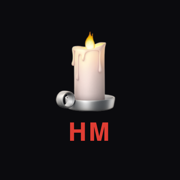
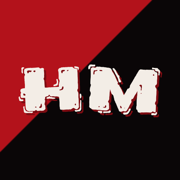
Terror-poster design language: red/black two-tone, Frijole/Rye type, hard edges

diff --git a/styles.css b/styles.css
@@ -1,94 +1,105 @@
+/* HORRORMEET · design language: 90s haunted-attraction poster.
+   Flat two-tone red/black, chunky outlined display type, victorian secondary, hard edges. */
 :root{
-  --bg:#0b0b0e; --panel:#141419; --panel2:#1b1b22; --line:#2a2a33;
-  --text:#e8e5df; --dim:#98939e; --faint:#6b6873;
-  --red:#e03d33; --red-dark:#8f2620; --amber:#d9a441; --good:#3fa46a;
+  --black:#0a0607; --red:#b3121b; --red-deep:#7d0c12; --white:#f3ede6;
+  --panel:#120b0c; --panel2:#1a1012; --line:#33181b;
+  --text:var(--white); --dim:#b9a8a3; --faint:#7d6c68; --good:#3fa46a;
 }
 *{box-sizing:border-box}
 html,body{margin:0;padding:0}
-body{background:var(--bg);color:var(--text);font:16px/1.55 -apple-system,BlinkMacSystemFont,"Segoe UI",Roboto,Helvetica,Arial,sans-serif;-webkit-font-smoothing:antialiased}
+body{background:var(--black);color:var(--text);font:16px/1.55 Georgia,'Times New Roman',serif;-webkit-font-smoothing:antialiased}
 .wrap{max-width:640px;margin:0 auto;padding:0 14px 90px}
-a{color:var(--amber);text-decoration:none}
-button{font:inherit;cursor:pointer;border:none;border-radius:10px}
-input,textarea,select{font:inherit;width:100%;background:var(--panel2);border:1px solid var(--line);color:var(--text);border-radius:10px;padding:11px 12px;outline:none}
+a{color:var(--red);text-decoration:none;font-weight:700}
+button{font:inherit;cursor:pointer;border:none;border-radius:0}
+input,textarea,select{font:16px/1.4 Georgia,serif;width:100%;background:var(--panel2);border:2px solid var(--line);color:var(--text);border-radius:0;padding:11px 12px;outline:none}
 input:focus,textarea:focus{border-color:var(--red)}
 ::placeholder{color:var(--faint)}
 
-header.app{position:sticky;top:0;z-index:20;background:rgba(11,11,14,.92);backdrop-filter:blur(8px);border-bottom:1px solid var(--line)}
-.app-bar{max-width:640px;margin:0 auto;display:flex;align-items:center;gap:10px;padding:12px 14px}
-.logo{font-weight:800;letter-spacing:.06em;font-size:17px;display:flex;align-items:center;gap:8px}
-.logo .skull{font-size:20px}
-.logo .beta{font-size:10px;color:var(--red);border:1px solid var(--red-dark);border-radius:5px;padding:1px 5px;letter-spacing:.12em}
+.display{font-family:'Frijole',Impact,fantasy;font-weight:400;letter-spacing:.02em}
+.victorian{font-family:'Rye',Georgia,serif;font-weight:400}
+
+/* diagonal two-tone header, poster-style */
+header.app{position:sticky;top:0;z-index:20;background:var(--black);border-bottom:3px solid var(--red)}
+.tagline-bar{background:var(--red);color:var(--white);font-family:'Rye',Georgia,serif;
+  font-size:12px;letter-spacing:.14em;text-transform:lowercase;padding:5px 14px;
+  clip-path:polygon(0 0,100% 0,100% 100%,0 100%)}
+.tagline-bar .inner{max-width:640px;margin:0 auto}
+.app-bar{max-width:640px;margin:0 auto;display:flex;align-items:center;gap:10px;padding:12px 14px 8px}
+.logo{font-family:'Frijole',Impact,fantasy;font-size:21px;color:var(--white);
+  text-shadow:2px 2px 0 var(--red-deep);display:flex;align-items:baseline;gap:8px}
+.logo .beta{font-family:'Rye',Georgia,serif;font-size:10px;color:var(--red);letter-spacing:.18em;text-transform:uppercase}
 .spacer{flex:1}
-.chip{background:var(--panel2);border:1px solid var(--line);color:var(--text);padding:7px 12px;border-radius:99px;font-size:14px;max-width:160px;overflow:hidden;text-overflow:ellipsis;white-space:nowrap}
+.chip{background:var(--black);border:2px solid var(--white);color:var(--white);padding:6px 14px;font-size:13px;font-weight:700;letter-spacing:.05em;text-transform:uppercase;max-width:170px;overflow:hidden;text-overflow:ellipsis;white-space:nowrap;font-family:Georgia,serif}
 .chip.red{background:var(--red);border-color:var(--red)}
 
-nav.tabs{display:flex;gap:6px;max-width:640px;margin:0 auto;padding:0 14px 10px}
-.tab{flex:1;background:var(--panel);border:1px solid var(--line);color:var(--dim);padding:9px 0;border-radius:10px;font-weight:600;font-size:14px}
-.tab.active{color:var(--text);border-color:var(--red);background:linear-gradient(180deg,rgba(224,61,51,.12),var(--panel))}
+nav.tabs{display:flex;max-width:640px;margin:0 auto;padding:0 14px 12px;gap:0}
+.tab{flex:1;background:var(--black);border:2px solid var(--red);color:var(--dim);padding:9px 0;font-family:'Rye',Georgia,serif;font-size:14px;letter-spacing:.06em}
+.tab:first-child{border-right-width:1px}
+.tab:last-child{border-left-width:1px}
+.tab.active{color:var(--white);background:var(--red)}
 
-.bounty{margin:14px 0;border:1px solid var(--red-dark);border-radius:14px;overflow:hidden;background:linear-gradient(180deg,rgba(224,61,51,.10),var(--panel))}
-.bounty .pin{display:flex;align-items:center;gap:8px;padding:8px 14px;font-size:12px;letter-spacing:.14em;color:var(--red);border-bottom:1px solid var(--red-dark);text-transform:uppercase}
-.bounty .body{padding:14px}
-.bounty h2{margin:0 0 6px;font-size:22px}
-.bounty .amount{color:var(--red);font-weight:800}
+/* the bounty: a poster panel */
+.bounty{margin:16px 0;border:3px solid var(--red);background:
+  linear-gradient(135deg,var(--red) 0 26%,var(--panel) 26.5% 100%)}
+.bounty .pin{display:flex;align-items:center;gap:8px;padding:8px 14px;font-family:'Rye',Georgia,serif;font-size:12px;letter-spacing:.18em;color:var(--white);text-transform:uppercase}
+.bounty .body{padding:6px 14px 14px}
+.bounty h2{margin:0 0 8px;font-family:'Frijole',Impact,fantasy;font-size:25px;color:var(--white);text-shadow:3px 3px 0 var(--red-deep);line-height:1.25}
 .bounty p{margin:0 0 8px;color:var(--dim);font-size:14.5px}
 .bounty .meta{font-size:12.5px;color:var(--faint)}
-.bounty .meta b{color:var(--amber);font-weight:600}
+.bounty .meta b{color:var(--white);font-weight:700}
 
-.card{background:var(--panel);border:1px solid var(--line);border-radius:14px;margin:12px 0;overflow:hidden}
+.card{background:var(--panel);border:2px solid var(--line);margin:14px 0;overflow:hidden}
 .card .pad{padding:14px}
-.post-head{display:flex;align-items:center;gap:8px;font-size:13px;color:var(--dim);margin-bottom:8px}
-.post-head .u{color:var(--amber);font-weight:600}
-.card h3{margin:0 0 6px;font-size:17px}
+.post-head{display:flex;align-items:center;gap:8px;font-size:13px;color:var(--faint);margin-bottom:8px}
+.post-head .u{color:var(--red);font-weight:700}
+.card h3{margin:0 0 6px;font-size:18px;font-family:Georgia,serif;letter-spacing:.01em}
 .card .body-text{margin:0;font-size:15px;color:var(--text);white-space:pre-wrap;word-wrap:break-word}
-.card img.photo{width:100%;display:block;max-height:420px;object-fit:cover;border-top:1px solid var(--line);border-bottom:1px solid var(--line)}
-.card-actions{display:flex;gap:14px;padding:10px 14px;border-top:1px solid var(--line);font-size:13px;color:var(--dim)}
-.card-actions button{background:none;color:var(--dim);padding:0;font-size:13px}
-.card-actions button:hover{color:var(--text)}
+.card img.photo{width:100%;display:block;max-height:420px;object-fit:cover;border-top:2px solid var(--line);border-bottom:2px solid var(--line);filter:saturate(.9) contrast(1.05)}
+.card-actions{display:flex;gap:16px;padding:10px 14px;border-top:2px solid var(--line);font-size:13px;color:var(--dim)}
+.card-actions button{background:none;color:var(--dim);padding:0;font-size:13px;font-family:Georgia,serif;letter-spacing:.04em;text-transform:uppercase}
+.card-actions button:hover{color:var(--red)}
 
-.comments{border-top:1px solid var(--line);padding:10px 14px;display:none}
+.comments{border-top:2px solid var(--line);padding:10px 14px;display:none}
 .comments.open{display:block}
 .comment{padding:8px 0;border-bottom:1px dashed var(--line);font-size:14px}
 .comment:last-of-type{border-bottom:none}
-.comment .u{color:var(--amber);font-weight:600;font-size:12.5px;margin-right:6px}
+.comment .u{color:var(--red);font-weight:700;font-size:12.5px;margin-right:6px}
 .comment-form{display:flex;gap:8px;margin-top:10px}
 .comment-form input{flex:1}
-.comment-form button{background:var(--red);color:#fff;padding:0 16px}
+.comment-form button{background:var(--red);color:var(--white);padding:0 16px;font-weight:700}
 
-.composer{background:var(--panel);border:1px dashed var(--line);border-radius:14px;padding:14px;margin:12px 0}
-.composer h3{margin:0 0 10px;font-size:15px;color:var(--dim)}
+.composer{background:var(--panel);border:2px dashed var(--red-deep);padding:14px;margin:14px 0}
+.composer h3{margin:0 0 10px;font-family:'Rye',Georgia,serif;font-size:14px;color:var(--red);letter-spacing:.1em;text-transform:uppercase}
 .composer .row{margin-bottom:10px}
-.composer .actions{display:flex;align-items:center;gap:10px}
-.btn{background:var(--red);color:#fff;padding:11px 18px;font-weight:700;border-radius:10px}
-.btn.ghost{background:var(--panel2);color:var(--text);border:1px solid var(--line)}
+.composer .actions{display:flex;align-items:center;gap:10px;flex-wrap:wrap}
+.btn{background:var(--red);color:var(--white);padding:11px 18px;font-weight:700;letter-spacing:.05em;text-transform:uppercase;font-size:14px;box-shadow:3px 3px 0 var(--red-deep)}
+.btn:active{transform:translate(2px,2px);box-shadow:1px 1px 0 var(--red-deep)}
+.btn.ghost{background:var(--black);color:var(--white);border:2px solid var(--white);box-shadow:none}
 .btn:disabled{opacity:.5;cursor:default}
 .hint{font-size:12.5px;color:var(--faint)}
 
 .event{display:flex;gap:12px;align-items:flex-start}
-.event .date{background:var(--panel2);border:1px solid var(--line);border-radius:10px;padding:8px 10px;text-align:center;min-width:58px}
-.event .date .m{font-size:11px;letter-spacing:.1em;color:var(--red);text-transform:uppercase}
-.event .date .d{font-size:20px;font-weight:800}
+.event .date{background:var(--red);color:var(--white);padding:8px 10px;text-align:center;min-width:58px;box-shadow:3px 3px 0 var(--red-deep)}
+.event .date .m{font-family:'Rye',Georgia,serif;font-size:11px;letter-spacing:.1em;text-transform:uppercase}
+.event .date .d{font-size:22px;font-weight:800;font-family:Georgia,serif}
 .event h3{margin:0 0 2px}
 .event .where{font-size:13.5px;color:var(--dim)}
 .event .going{font-size:12.5px;color:var(--faint);margin-top:4px}
 
-.auth-panel{padding:16px}
-.auth-panel h3{margin:0 0 4px}
-.auth-panel p{margin:0 0 12px;color:var(--dim);font-size:14px}
 .auth-panel .row{display:flex;gap:8px}
 .auth-panel .row input{flex:1}
 
-.empty{color:var(--faint);text-align:center;padding:34px 10px;font-size:14.5px}
-.toast{position:fixed;left:50%;bottom:24px;transform:translateX(-50%);background:var(--panel2);border:1px solid var(--line);color:var(--text);padding:11px 18px;border-radius:99px;font-size:14px;z-index:50;box-shadow:0 8px 30px rgba(0,0,0,.5);opacity:0;transition:opacity .25s;pointer-events:none;max-width:88vw;text-align:center}
+.empty{color:var(--faint);text-align:center;padding:34px 10px;font-size:14.5px;font-style:italic}
+.toast{position:fixed;left:50%;bottom:24px;transform:translateX(-50%);background:var(--red);border:2px solid var(--white);color:var(--white);padding:11px 18px;font-size:14px;font-weight:700;z-index:50;box-shadow:4px 4px 0 rgba(0,0,0,.6);opacity:0;transition:opacity .25s;pointer-events:none;max-width:88vw;text-align:center}
 .toast.show{opacity:1}
-.section-note{font-size:12.5px;color:var(--faint);margin:16px 4px 4px;text-transform:uppercase;letter-spacing:.12em}
-footer{margin-top:30px;padding:18px 4px;color:var(--faint);font-size:12.5px;text-align:center;border-top:1px solid var(--line)}
-footer a{color:var(--faint)}
+.section-note{font-family:'Rye',Georgia,serif;font-size:13px;color:var(--red);margin:20px 4px 4px;text-transform:uppercase;letter-spacing:.16em}
+footer{margin-top:34px;padding:18px 4px;color:var(--faint);font-size:12.5px;text-align:center;border-top:3px solid var(--red)}
+footer a{color:var(--red)}
 .hidden{display:none !important}
-.pill{font-size:11px;border:1px solid var(--line);color:var(--dim);border-radius:5px;padding:1px 6px;letter-spacing:.08em}
-.pill.pending{color:var(--amber);border-color:var(--amber)}
-.badge{display:inline-block;font-size:11px;background:var(--panel2);border:1px solid var(--amber);color:var(--amber);border-radius:6px;padding:2px 7px;margin:2px 4px 2px 0;letter-spacing:.06em}
+.pill{font-size:11px;border:1px solid var(--line);color:var(--dim);padding:1px 6px;letter-spacing:.08em}
+.pill.pending{color:var(--red);border-color:var(--red)}
+.badge{display:inline-block;font-size:11px;background:var(--black);border:1px solid var(--red);color:var(--red);padding:2px 7px;margin:2px 4px 2px 0;letter-spacing:.06em;text-transform:uppercase}
 .admin-row{display:flex;gap:8px;margin-top:10px}
 .admin-row .btn{padding:8px 14px;font-size:13.5px}
-.btn.good{background:var(--good)}
-.btn.danger{background:var(--red-dark)}
+.btn.good{background:var(--good);box-shadow:3px 3px 0 #22593c}
+.btn.danger{background:var(--red-deep);box-shadow:3px 3px 0 #4a0709}

diff --git a/rules.html b/rules.html
@@ -5,6 +5,7 @@
 <meta name="viewport" content="width=device-width, initial-scale=1">
 <title>House Rules · HorrorMeet</title>
 <meta name="theme-color" content="#0b0b0e">
+<link rel="stylesheet" href="https://fonts.googleapis.com/css2?family=Frijole&family=Rye&display=swap">
 <link rel="stylesheet" href="styles.css">
 <style>
   .rulecard{border:1.5px dashed #4a4750;border-radius:10px;padding:14px 18px;margin:14px 0;
@@ -15,7 +16,7 @@
 </style>
 </head>
 <body>
-<header class="app"><div class="app-bar"><a class="logo" href="index.html" style="color:var(--text)"><span class="skull">🕯</span> HORRORMEET</a></div></header>
+<header class="app"><div class="tagline-bar"><div class="inner">beyond the limits of your group chat.</div></div><div class="app-bar"><a class="logo" href="index.html">HORRORMEET</a></div></header>
 <main class="wrap">
   <h1>HOUSE RULES</h1>
   <p class="small">Found taped inside a breaker box, somewhere in the hills. We just work here.</p>

diff --git a/index.html b/index.html
@@ -9,12 +9,15 @@
 <link rel="manifest" href="manifest.webmanifest">
 <link rel="apple-touch-icon" href="icon-180.png">
 <link rel="icon" href="icon-180.png">
+<link rel="preconnect" href="https://fonts.googleapis.com">
+<link rel="stylesheet" href="https://fonts.googleapis.com/css2?family=Frijole&family=Rye&display=swap">
 <link rel="stylesheet" href="styles.css">
 </head>
 <body>
 <header class="app">
+  <div class="tagline-bar"><div class="inner">beyond the limits of your group chat.</div></div>
   <div class="app-bar">
-    <div class="logo"><span class="skull">🕯</span> HORRORMEET <span class="beta">BETA</span></div>
+    <div class="logo">HORRORMEET <span class="beta">Beta</span></div>
     <div class="spacer"></div>
     <button id="authChip" class="chip">Sign in</button>
   </div>
